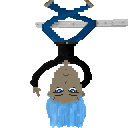
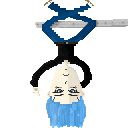
phone scale fix

diff --git a/src/main.js b/src/main.js
@@ -726,7 +726,7 @@ import { Table, Player } from "./blackjack";
         desktopScaleBoost = isMobile.phone ? 1 : 1.25;
 
         gameScale = Math.min(app.screen.width / BASE_WIDTH * 0.6, app.screen.height / BASE_HEIGHT * 0.4) * desktopScaleBoost*portraitBoost;
-        hudScale = gameScale;
+        hudScale = isMobile.phone ? gameScale*0.8 : gameScale;
 
         halfWidth = app.screen.width / hudScale / 2;
         halfHeight = app.screen.height / hudScale / 2;
@@ -737,12 +737,14 @@ import { Table, Player } from "./blackjack";
         hudContainer.scale.set(hudScale);
         hudContainer.position.set(app.screen.width / 2, app.screen.height / 2);
 
+        
+
         playerSprite.position.set(-halfWidth, halfHeight);
         playerNameText.position.set(playerSprite.x+playerSprite.width-spacing, halfHeight - spacing);
         playerBalanceText.position.set(playerSprite.x+playerSprite.width-spacing, halfHeight - spacing / 1.3);
         playerBetText.position.set(playerSprite.x+playerSprite.width-spacing, halfHeight - spacing / 2);
         dealerSprite.position.set(halfWidth-dealerSprite.width, -halfHeight);
-        dealerNameText.position.set(dealerSprite.x+dealerSprite.width/2, dealerSprite.y+dealerSprite.height+spacing/2);
+        dealerNameText.position.set(dealerSprite.x+dealerinfoBgSprite.width/2, dealerSprite.y+dealerSprite.height+spacing/2);
         dealerinfoBgSprite.position.set(dealerNameText.x-spacing/4, dealerNameText.y - dealerNameText.height/3);
         shopSprite.position.set(halfWidth - spacing / 6, halfHeight - spacing);
         infoSprite.position.set(-halfWidth + spacing*0.8, -halfHeight+spacing/4);
@@ -788,15 +790,15 @@ import { Table, Player } from "./blackjack";
             keyCSprite.position.set(keyStartX + keyVSprite.width/2 + spacing/8, keyY);
         }
         if (isMobile.phone) {
-            keyVSprite.position.set(-spacing, shopSprite.y + shopSprite.height/2);
-            keyCSprite.position.set(spacing, shopSprite.y + shopSprite.height/2);
-            betUpText.position.set(keyVSprite.x+spacing/2, keyVSprite.y); 
-            betDownText.position.set(keyCSprite.x+spacing/2, keyCSprite.y);
-            hitText.position.set(player.deck.length * spacing / 1.4 + spacing*0.5, cheatBgSprite.position.y + cheatBgSprite.height/2 + spacing - scale); 
-            holdText.position.set(dealer.deck.length * spacing / 1.4 + spacing*0.7, cheatBgSprite.position.y - cheatBgSprite.height/2 - spacing*1.4 - scale);
+            keyVSprite.position.set(infoSprite.x+spacing, infoSprite.y + infoSprite.height/2);
+            keyCSprite.position.set(infoSprite.x+spacing*3, infoSprite.y + infoSprite.height/2);
+            betUpText.position.set(keyVSprite.x+spacing/2, infoSprite.y + infoSprite.height/2); 
+            betDownText.position.set(keyCSprite.x+spacing/2, infoSprite.y + infoSprite.height/2);
+            hitText.position.set((halfWidth / 4 -  spacing * (player.deck.length - 1) / 2)+(spacing * (player.deck.length - 1)) + spacing*1.6, cheatBgSprite.position.y + cheatBgSprite.height/2 + spacing - scale); 
+            holdText.position.set((-halfWidth / 4 -  spacing * (dealer.deck.length - 1) / 2)+(spacing * (dealer.deck.length - 1)) + spacing*1.8, cheatBgSprite.position.y - cheatBgSprite.height/2 - spacing*1.4 - scale);
         }
         //-(target.deck.length - 1) * spacing / 2 + i * spacing + (target === player ? halfWidth/3 : -halfWidth/4);
-        keyXSprite.position.set((halfWidth / 4 -  spacing * (player.deck.length - 1) / 2)+(spacing * (player.deck.length - 1)) + spacing*1.6, cheatBgSprite.position.y + cheatBgSprite.height/2 + spacing); 
+        keyXSprite.position.set((halfWidth / 4 -  spacing * (player.deck.length - 1) / 2)+(spacing * (player.deck.length - 1)) + spacing, cheatBgSprite.position.y + cheatBgSprite.height/2 + spacing); 
         keyZSprite.position.set((-halfWidth / 4 -  spacing * (dealer.deck.length - 1) / 2)+(spacing * (dealer.deck.length - 1)) + spacing, cheatBgSprite.position.y - cheatBgSprite.height/2 - spacing*1.4);
     }
 
